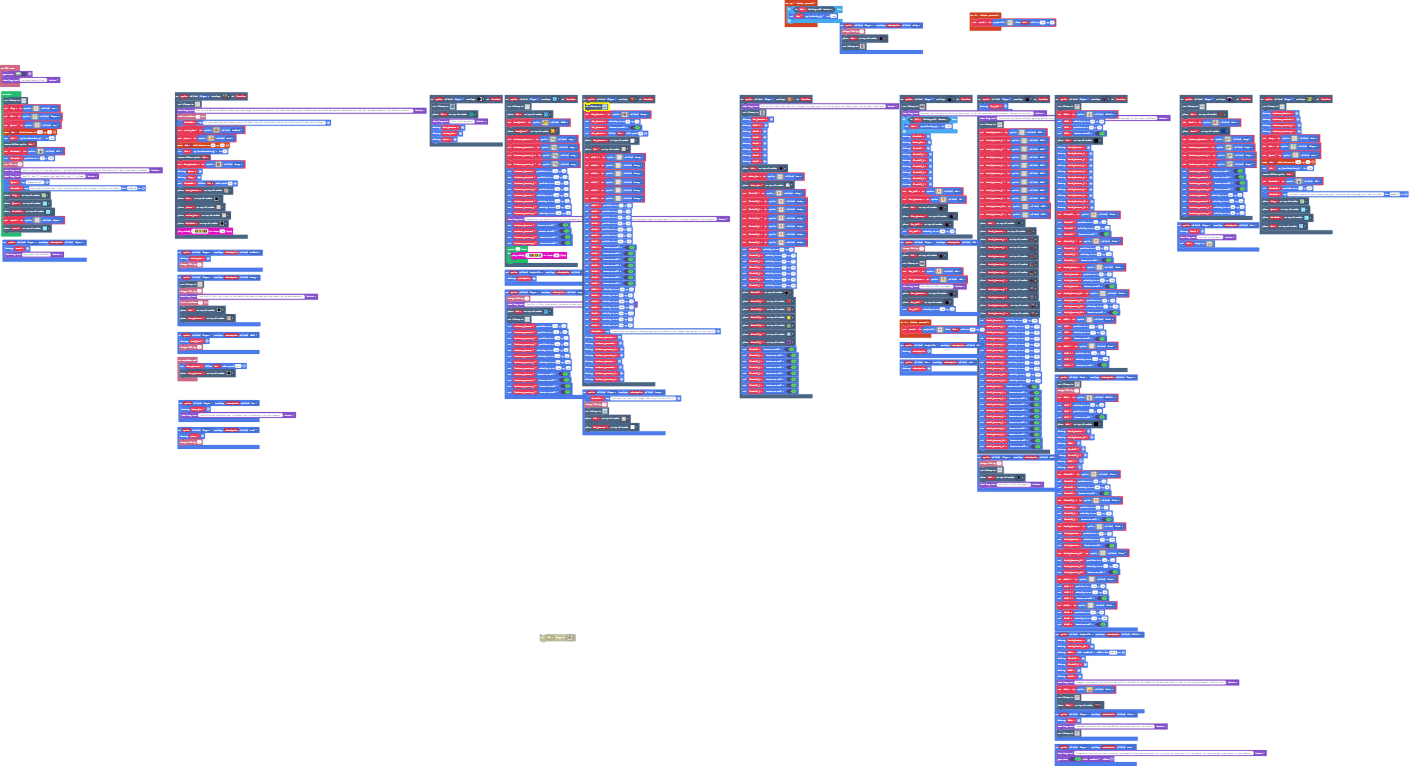
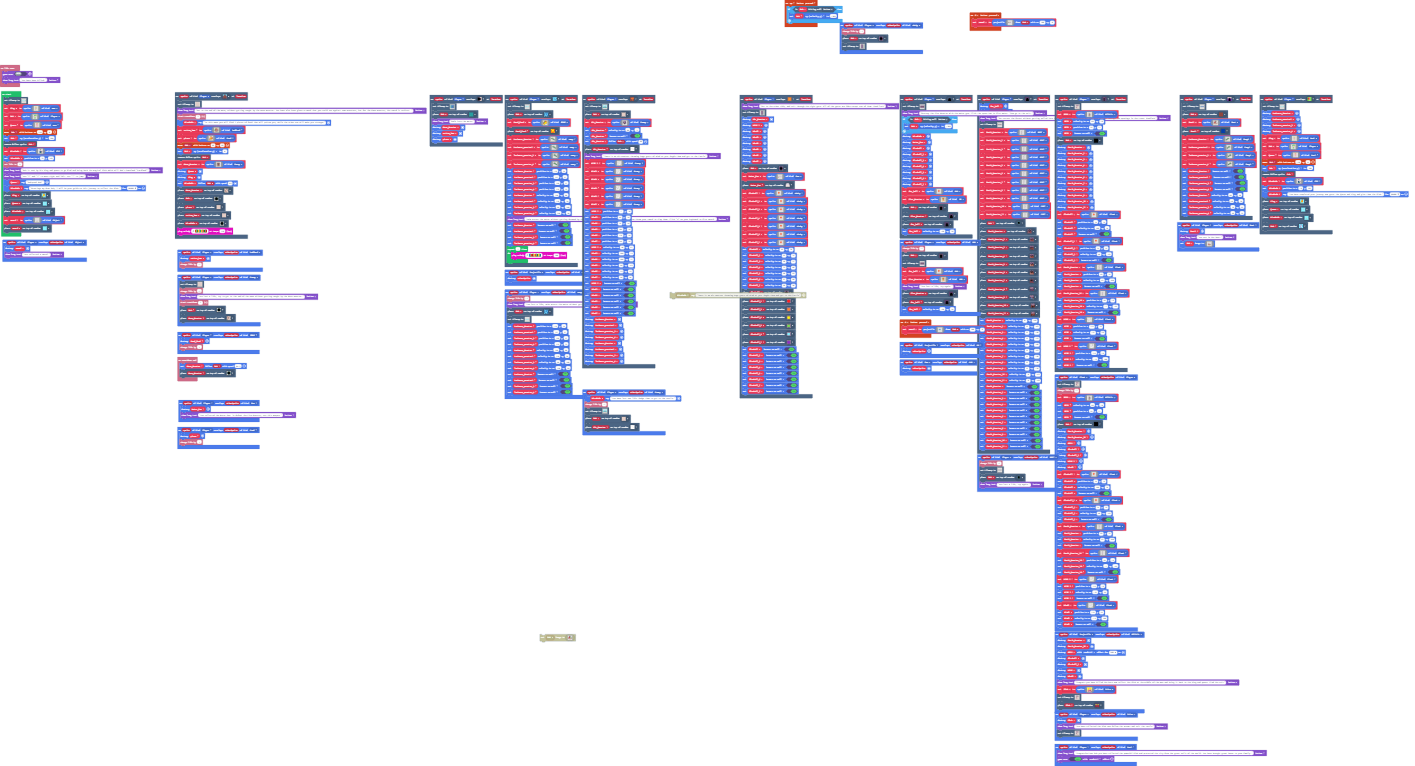
Update main.blocks, main.ts

Changed region(s): [[0.4042, 0.3003, 0.5597, 0.5104], [0.4042, 0.1201, 0.4975, 0.2702]]

diff --git a/main.ts b/main.ts
@@ -1090,6 +1090,7 @@ scene.onOverlapTile(SpriteKind.Player, myTiles.tile42, function (sprite, locatio
         ....................................
         222222222222222222222222222222222222
         `, [myTiles.transparency16,sprites.castle.tileDarkGrass3,myTiles.tile4,myTiles.tile29,myTiles.tile30,myTiles.tile31,myTiles.tile47,myTiles.tile48,myTiles.tile49,myTiles.tile50,myTiles.tile51,myTiles.tile52,myTiles.tile53,myTiles.tile54,myTiles.tile55,myTiles.tile56,myTiles.tile57,myTiles.tile59,myTiles.tile60,myTiles.tile61,myTiles.tile62,myTiles.tile63,sprites.castle.tilePath5,myTiles.tile71], TileScale.Sixteen))
+    tiles.placeOnRandomTile(Bob, myTiles.tile71)
     Air_Monster = sprites.create(img`
         ......bbbbbbb.......
         .....bbbbbbbbb......
@@ -1116,7 +1117,7 @@ scene.onOverlapTile(SpriteKind.Player, myTiles.tile42, function (sprite, locatio
     Air_Monster.setFlag(SpriteFlag.BounceOnWall, true)
     Air_Monster.follow(Bob, 80)
     tiles.placeOnRandomTile(Air_Monster, myTiles.tile62)
-    tiles.placeOnRandomTile(Bob, myTiles.tile71)
+    game.showLongText("There is an air montser throwing huge gusts of wind at you. Dogde them and get to the Castle", DialogLayout.Bottom)
     WIND_2 = sprites.create(img`
         . . . . . . . . . . . . . . . . 
         . . . . . . . . . . . . . . . . 
@@ -1226,27 +1227,23 @@ scene.onOverlapTile(SpriteKind.Player, myTiles.tile42, function (sprite, locatio
         . . . . . . 1 1 1 1 1 1 f . . . 
         `, SpriteKind.Ennmy)
     WIND_2.setPosition(7, 10)
-    Wind2.setPosition(32, 10)
     Wind3.setPosition(49, 10)
     Wind4.setPosition(78, 10)
     Wind5.setPosition(104, 10)
     Wind6.setPosition(128, 10)
     Wind7.setPosition(144, 10)
-    WIND_2.setFlag(SpriteFlag.BounceOnWall, true)
-    Wind2.setFlag(SpriteFlag.BounceOnWall, true)
-    Wind3.setFlag(SpriteFlag.BounceOnWall, true)
-    Wind4.setFlag(SpriteFlag.BounceOnWall, true)
-    Wind5.setFlag(SpriteFlag.BounceOnWall, true)
-    Wind6.setFlag(SpriteFlag.BounceOnWall, true)
-    Wind7.setFlag(SpriteFlag.BounceOnWall, true)
     WIND_2.setVelocity(90, 81)
-    Wind2.setVelocity(42, 81)
     Wind3.setVelocity(100, 15)
     Wind4.setVelocity(100, 32)
     Wind5.setVelocity(60, -65)
     Wind6.setVelocity(79, 53)
     Wind7.setVelocity(50, 94)
-    WiseDude.say("There is an air montser throwing huge gusts of wind at you. Dogde them and get to the Castle")
+    WIND_2.setFlag(SpriteFlag.BounceOnWall, true)
+    Wind3.setFlag(SpriteFlag.BounceOnWall, true)
+    Wind4.setFlag(SpriteFlag.BounceOnWall, true)
+    Wind5.setFlag(SpriteFlag.BounceOnWall, true)
+    Wind6.setFlag(SpriteFlag.BounceOnWall, true)
+    Wind7.setFlag(SpriteFlag.BounceOnWall, true)
     Lochness_Monster.destroy()
     Lochness_monstar2.destroy()
     lochness_monster_3.destroy()
@@ -2753,13 +2750,13 @@ let Queen: Sprite = null
 let Bob: Sprite = null
 let King: Sprite = null
[1 lines of base64/hex data omitted]
-    22222.............................................
-    ..................................................
-    ..................................................
-    .............................................2....
-    .............................................2...2
-    .............................................2.2.2
-    .............................................2.2.2
+    22222....................................2........
+    .........................................2........
+    .........................................2........
+    .........................................2...2....
+    .........................................2...2...2
+    .........................................2...2.2.2
+    .........................................2...2.2.2
     22222........................................2.2.2
     22222222222222222222222222222222222222222222222222
     22222222222222222222222222222222222222222222222222
